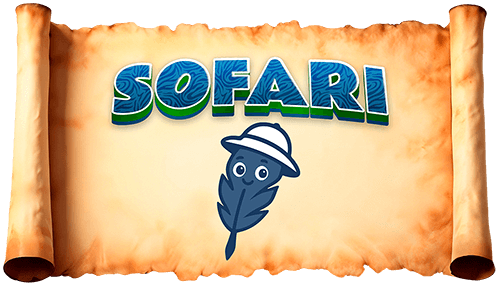
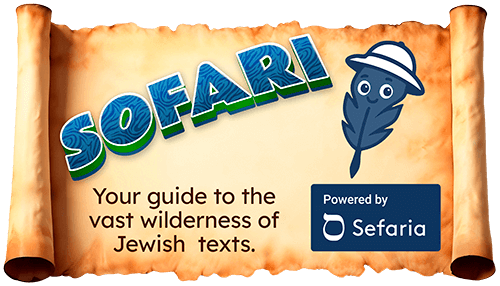
🌈 improve: update help command layout

diff --git a/sparks/utility/help.ts b/sparks/utility/help.ts
@@ -36,7 +36,7 @@ export class Help extends CommandSpark {
 				new MediaGalleryItemBuilder().setURL('attachment://banner.png'),
 			),
 			new TextDisplayBuilder().setContent(
-				'Sofari provides an interface to the [Sefaria](https://sefaria.org) library of Jewish texts, making it easy to post the original text, translations, and commentaries.',
+				'Sofari provides an interface to the [Sefaria](https://sefaria.org) library of Jewish texts, making it easy to post the original texts, translations, and commentaries in Discord chats and DMs.',
 			),
 			new ContainerBuilder().addTextDisplayComponents(
 				new TextDisplayBuilder().setContent(
@@ -47,13 +47,10 @@ export class Help extends CommandSpark {
 				.setSpacing(SeparatorSpacingSize.Small)
 				.setDivider(true),
 			new TextDisplayBuilder().setContent(
-				"If you need help or want to suggest a new feature, please join <@1123411105289601115>'s [development server](https://discord.gg/Dk8P8h3e9u).",
+				'If you need help or want to suggest a new feature, please join the [development server](https://discord.gg/Dk8P8h3e9u).',
 			),
 			new TextDisplayBuilder().setContent(
-				'I maintain and host this application as a hobby of :two_hearts: for the Jewish Discord community.  If you appreciate it and want to do so, you can [tip me](https://lnk.bio/uniquepixels).',
-			),
-			new MediaGalleryBuilder().addItems(
-				new MediaGalleryItemBuilder().setURL('attachment://powered.png'),
+				'This project is maintained and hosted as a hobby of :two_hearts: for the Jewish Discord community, by <@1123411105289601115>.  There are no fees or premiums to use it. If you want to show your appreciation, consider [buying them a coffee](https://lnk.bio/uniquepixels).',
 			),
 		];
 
@@ -72,10 +69,6 @@ export class Help extends CommandSpark {
 					{
 						attachment: join(import.meta.dirname, './assets/banner.png'),
 						name: 'banner.png',
-					},
-					{
-						attachment: join(import.meta.dirname, './assets/powered.png'),
-						name: 'powered.png',
 					},
 				],
 				flags: messageFlags,
